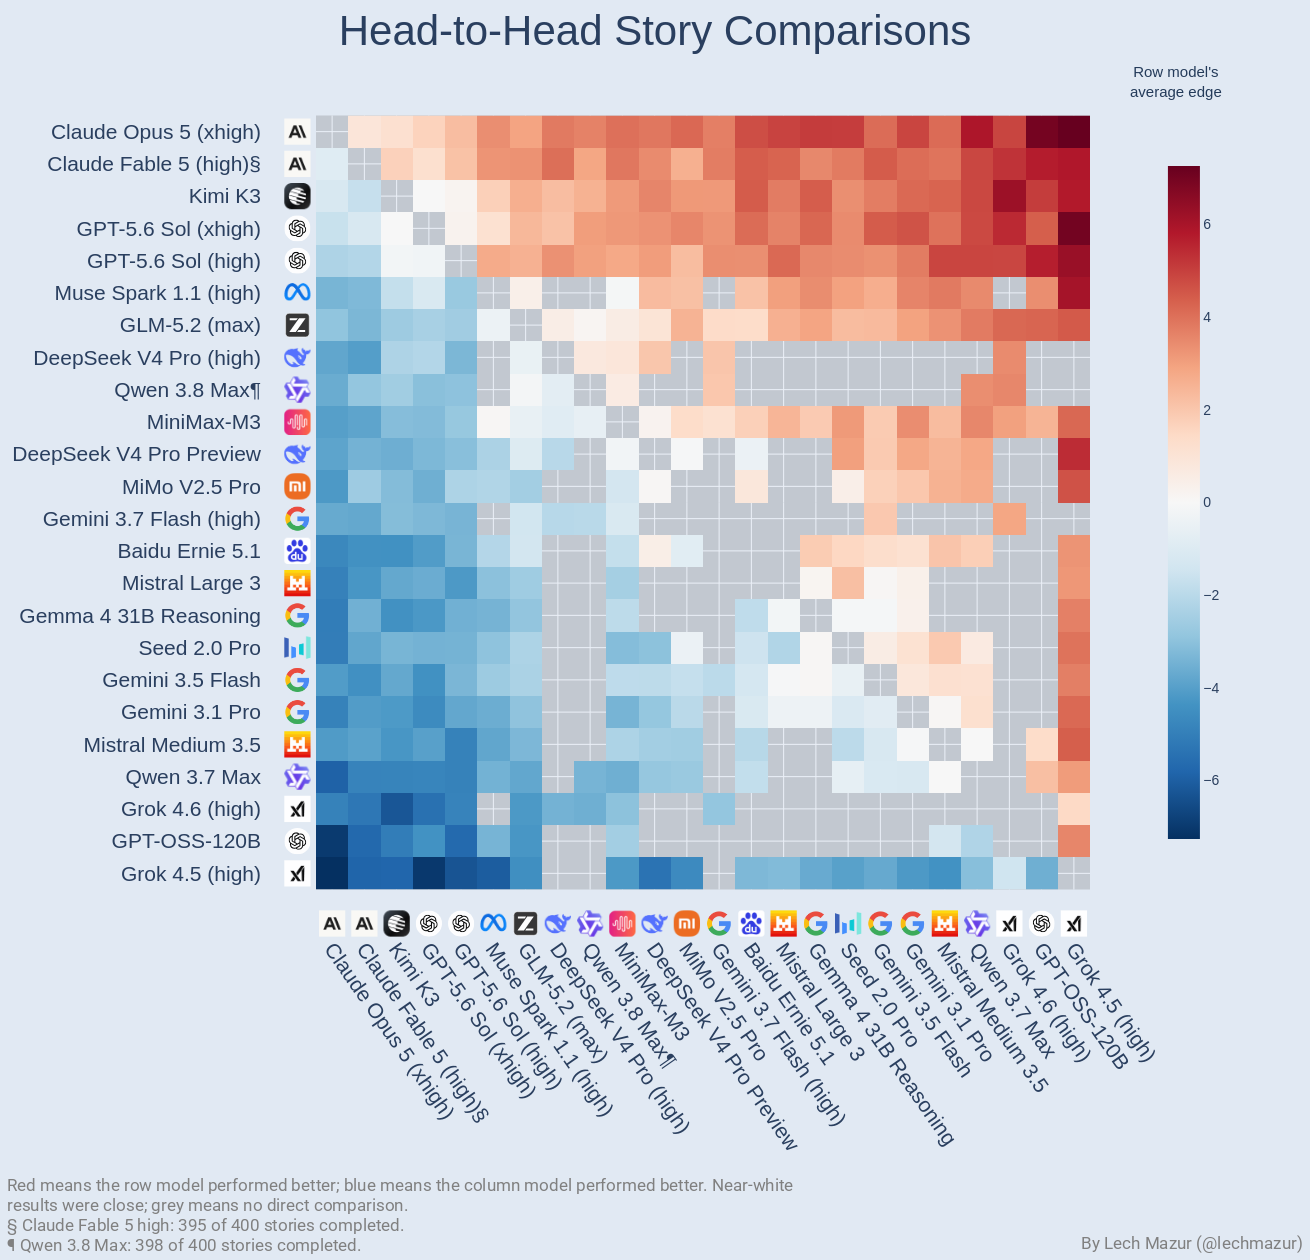
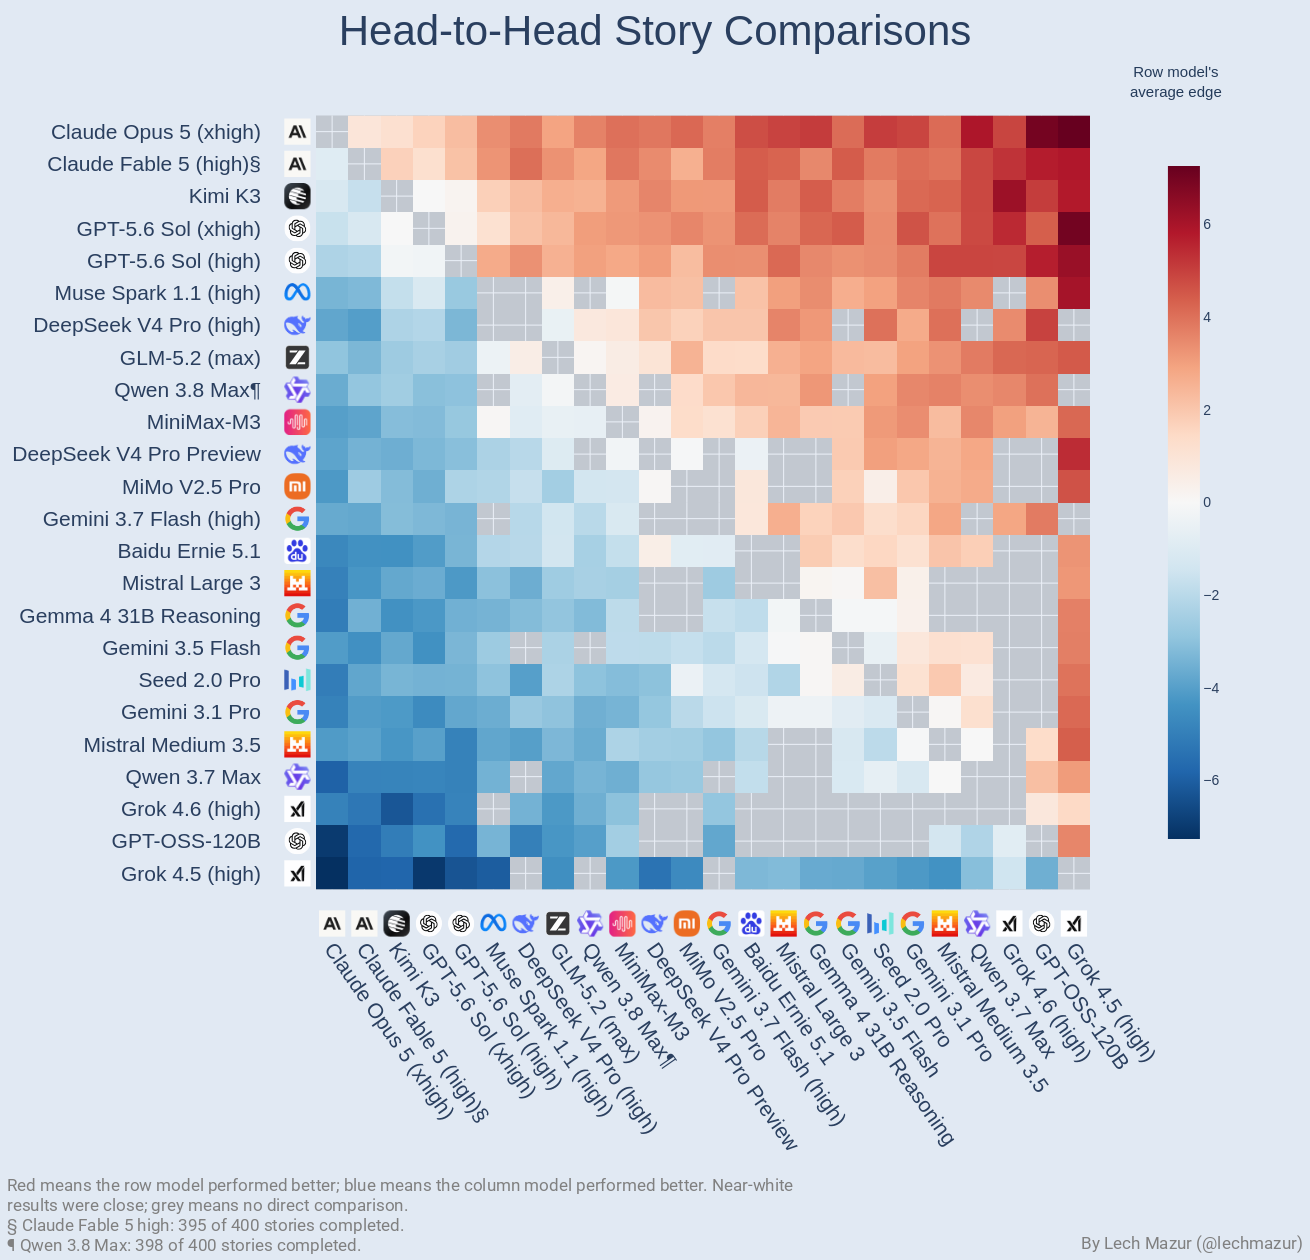
Publish broader highlighted model comparisons

diff --git a/reports/pair_analysis/new_models_compared_with_predecessors.md b/reports/pair_analysis/new_models_compared_with_predecessors.md
@@ -1,0 +1,8 @@
+# New Models Compared with Their Predecessors
+
+These reports compare each highlighted model with its immediate benchmark predecessor on the same stories. They combine the direct comparison scores with source-grounded qualitative analysis of recurring differences in reasoning, narrative control, characterization, causality, prose, and endings.
+
+- [DeepSeek V4 Pro (high) vs. DeepSeek V4 Pro Preview](deepseek-v4-pro-high__vs__deepseek-v4-pro__comparator_v2_eval_v2_v3_combined_public__subjective_v3_reader_summary.md)
+- [Qwen 3.8 Max vs. Qwen 3.7 Max](qwen3.8-max__vs__qwen3.7-max__comparator_v2_eval_v2_v3_combined_public__subjective_v3_reader_summary.md)
+- [Gemini 3.7 Flash (high) vs. Gemini 3.5 Flash](gemini-3.7-flash-high__vs__gemini-3.5-flash__comparator_v2_eval_v2_v3_combined_public__subjective_v3_reader_summary.md)
+- [Grok 4.6 (high) vs. Grok 4.5 (high)](grok-4.6-high__vs__grok-4.5-high__comparator_v2_eval_v2_v3_combined_public__subjective_v3_reader_summary.md)
